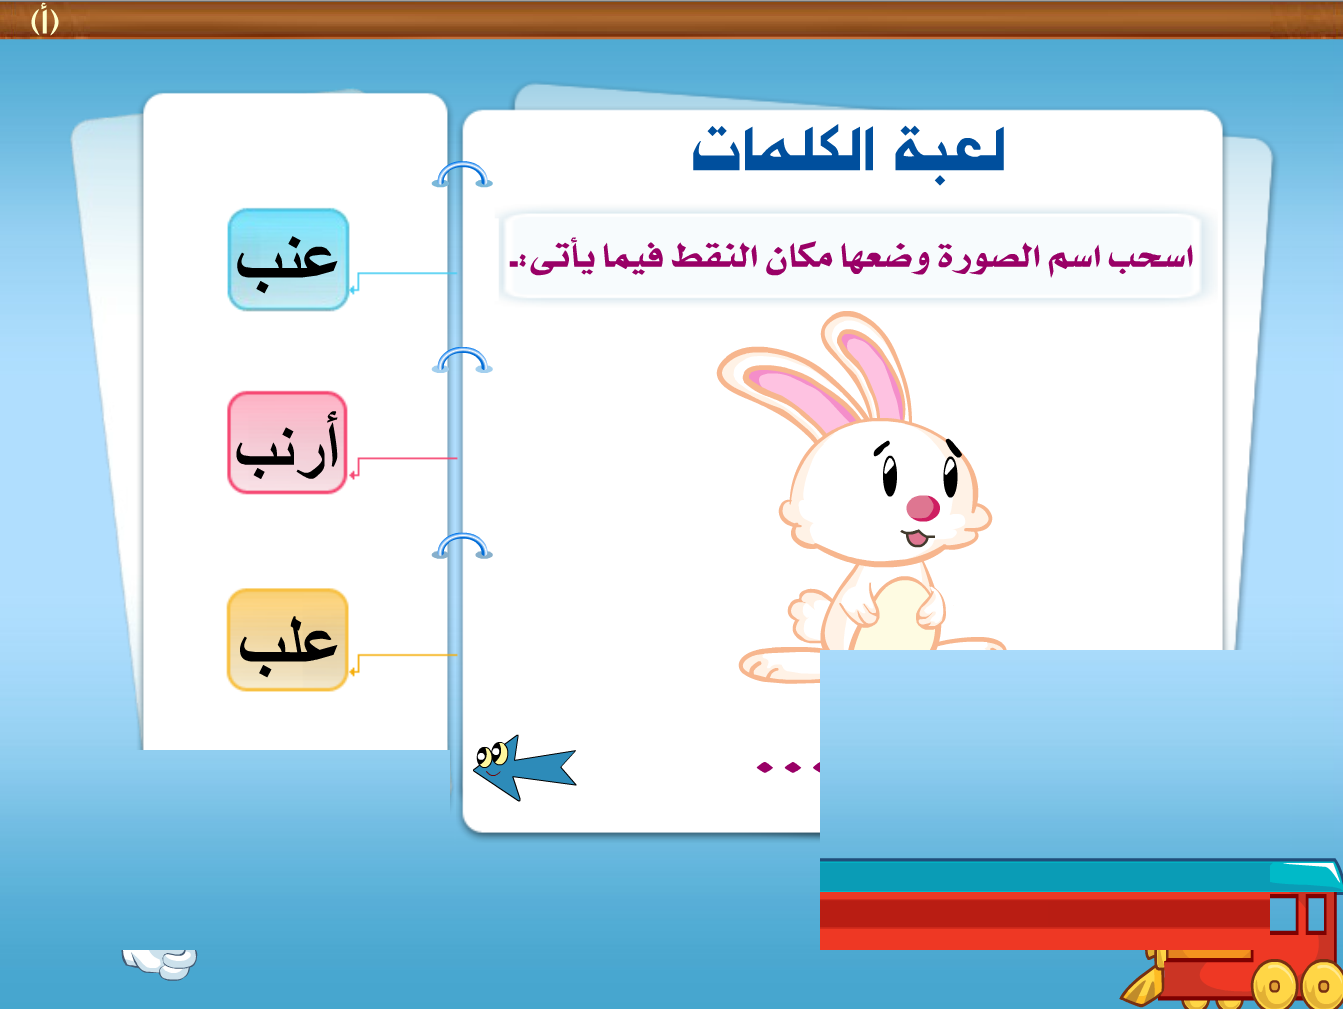
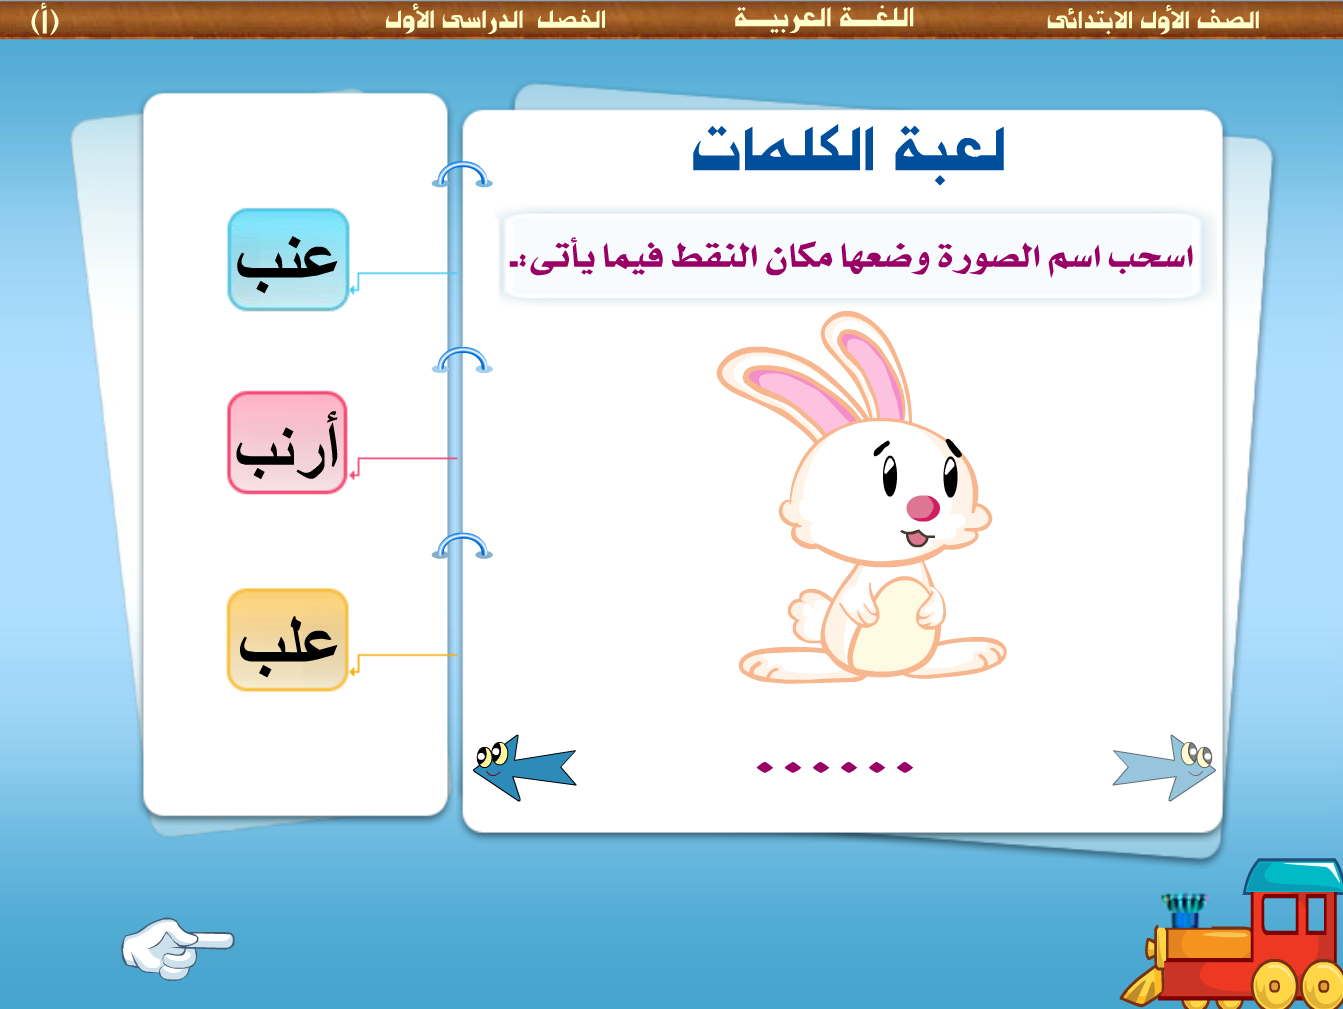
fix: audio plays only on correct drop, and fix mask positioning

diff --git a/lib/features/games/screens/words_match_game.dart b/lib/features/games/screens/words_match_game.dart
@@ -1,4 +1,4 @@
-import 'package:flutter/material.dart';
+import 'package:flutter/material.dart';
 import 'package:flutter/services.dart';
 import 'package:flutter_riverpod/flutter_riverpod.dart';
 import 'package:flutter_animate/flutter_animate.dart';
@@ -194,10 +194,8 @@ class _WordsMatchGameState extends ConsumerState<WordsMatchGame>
     final rd = _rounds[_round];
     final card = rd.cards[cardIdx];
 
-    // Always speak the word that was dragged
-    await _playWordAudio(card.audioPath);
-
     if (card.isCorrect) {
+      await _playWordAudio(card.audioPath); // Play ONLY when correct word is dropped
       setState(() {
         _roundDone = true;
         _score++;
@@ -280,6 +278,30 @@ class _WordsMatchGameState extends ConsumerState<WordsMatchGame>
             width: 175 * scaleX,
             height: 580 * scaleY,
             child: Container(color: Colors.white),
+          ),
+          // Top bar text mask (blue to match top bar)
+          Positioned(
+            left: ox + 160 * scaleX,
+            top: oy,
+            width: 800 * scaleX,
+            height: 45 * scaleY,
+            child: Container(color: const Color(0xFFA96428)),
+          ),
+          // Train mask (blue background)
+          Positioned(
+            right: ox,
+            bottom: oy,
+            width: 450 * scaleX,
+            height: 115 * scaleY,
+            child: Container(color: const Color(0xFF58AED7)),
+          ),
+          // Hand mask (blue background)
+          Positioned(
+            left: ox,
+            bottom: oy,
+            width: 250 * scaleX,
+            height: 150 * scaleY,
+            child: Container(color: const Color(0xFF58AED7)),
           ),
           // Drop target zone
           _buildDropTarget(rd, ox, oy, scaleX, scaleY),
@@ -406,8 +428,6 @@ class _WordsMatchGameState extends ConsumerState<WordsMatchGame>
     final isHint = _showCorrectAnswer && card.isCorrect;
 
     Widget face = GestureDetector(
-      // Tap the card to HEAR the word (even without dragging)
-      onTap: () => _playWordAudio(card.audioPath),
       child: Container(
         width: cardW,
         height: cardH,
@@ -457,7 +477,6 @@ class _WordsMatchGameState extends ConsumerState<WordsMatchGame>
         : Draggable<int>(
             data: i,
             maxSimultaneousDrags: 1,
-            onDragStarted: () => _playWordAudio(card.audioPath),
             feedback: Material(
               color: Colors.transparent,
               child: Opacity(
